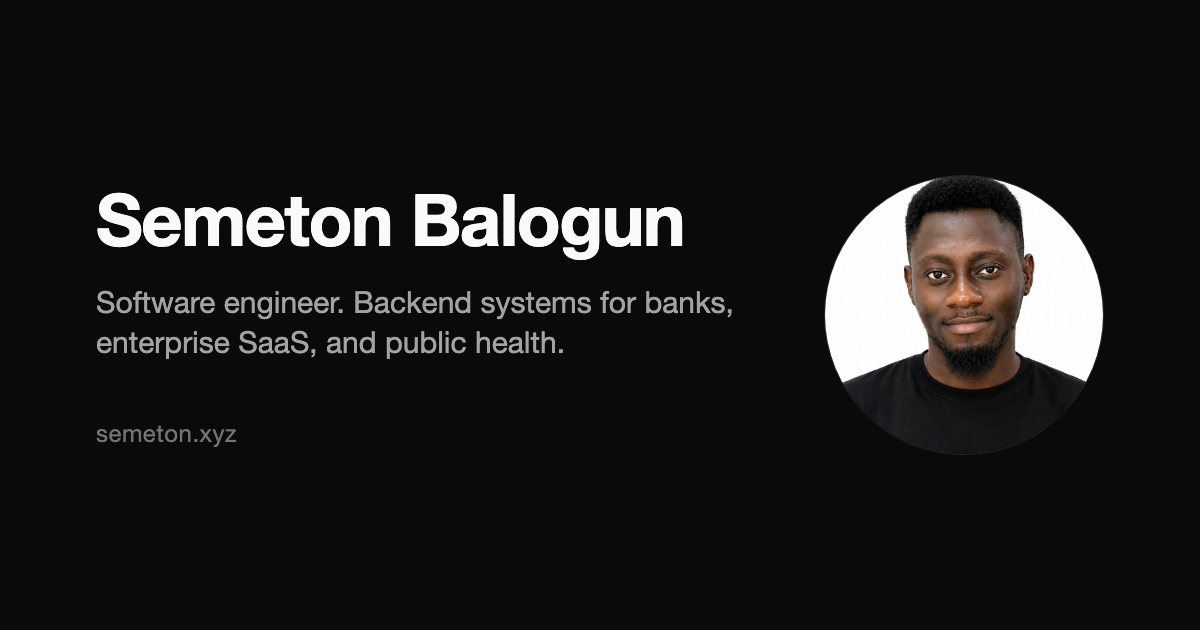
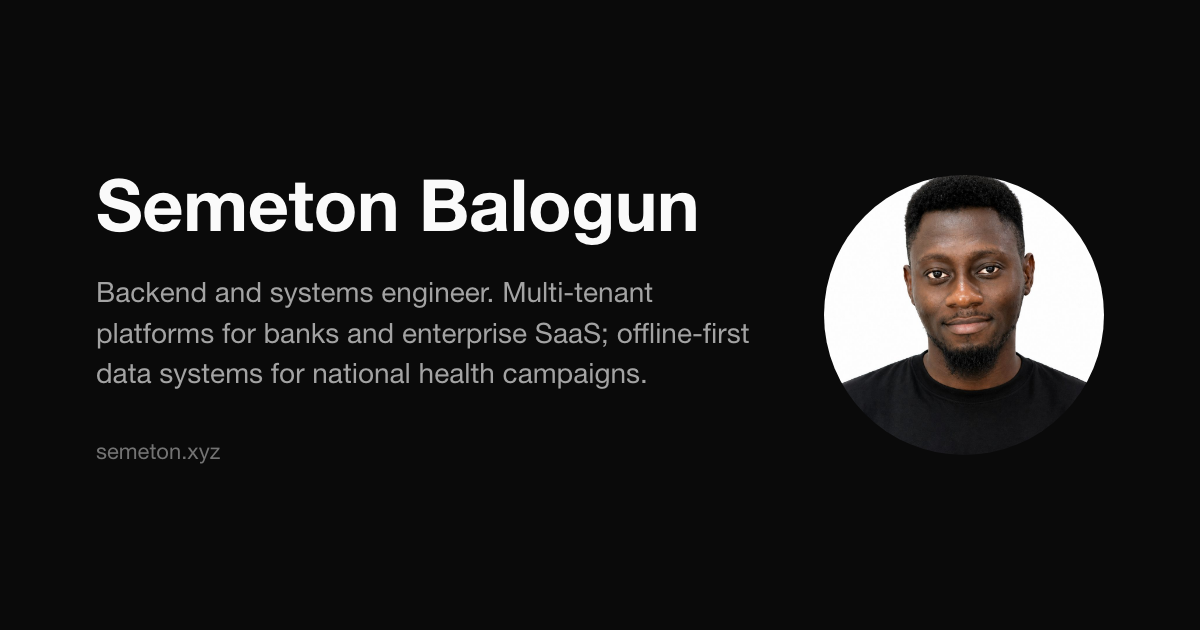
Reposition as backend and systems engineer
Rewrite metadata, JSON-LD, tagline and bio around current work; detail
the eGov and Seamless roles; note agent-contract v0.8 and the azb
companion CLI; refresh the social image and manifest name.

diff --git a/components/hero.tsx b/components/hero.tsx
@@ -38,8 +38,9 @@ export default function Hero() {
             Semeton Balogun
           </h1>
           <p className="mt-1 text-muted-foreground">
-            Software engineer. Backend systems for banks, enterprise SaaS, and
-            public health.
+            Backend and systems engineer. Multi-tenant platforms for banks and
+            enterprise SaaS; offline-first data systems for national health
+            campaigns.
           </p>
         </div>
         <Image
@@ -54,30 +55,9 @@ export default function Hero() {
 
       <div className="mt-8 space-y-4 leading-relaxed">
         <p>
-          I studied nursing at the University of Lagos, working as a graphic
-          designer and creative director for about five years alongside the
-          degree. I graduated with distinction and qualified as a registered
-          nurse. Curiosity got me teaching myself to code. In 2020 I joined
-          the tech apprenticeship at Bincom Dev Center, which became my first
-          engineering role, with{" "}
-          <a
-            href="https://ogwodev.com/"
-            target="_blank"
-            rel="noopener noreferrer"
-            className="underline decoration-muted-foreground/40 underline-offset-4 hover:decoration-foreground"
-          >
-            Emmanuel Ogwo
-          </a>{" "}
-          as my mentor.
-        </p>
-        <p>
-          Since then I've mostly built backend systems: education platforms at
-          Bincom and ScholarshipIQ, then as technical lead at Zercom Systems,
-          where I led the rewrite of an LMS used by <ClientList />. What I keep coming back to, and write about, is how
-          architecture decisions hold up once they meet production.
-        </p>
-        <p>
-          Currently at{" "}
+          I build backend systems where the hard part is production: tenant
+          isolation, data that has to stay correct across services and offline
+          devices, and deployments inside bank networks. At{" "}
           <a
             href="https://seamlesstech.com/"
             target="_blank"
@@ -85,8 +65,8 @@ export default function Hero() {
             className="underline decoration-muted-foreground/40 underline-offset-4 hover:decoration-foreground"
           >
             Seamless Technologies
-          </a>
-          , and on contract with{" "}
+          </a>{" "}
+          I work on a multi-tenant HR suite. On contract with{" "}
           <a
             href="https://egov.global/"
             target="_blank"
@@ -95,9 +75,43 @@ export default function Hero() {
           >
             eGov Foundation
           </a>{" "}
-          on DIGIT, the platform behind Nigeria's health campaigns. Pursuing a
-          Master's in Information Technology at Miva Open University, and
-          growing toward systems architecture and solutions engineering.
+          I work on DIGIT, the open-source platform behind Nigeria's malaria
+          campaigns. Since mid-2026 I've worked agent-first, under rules
+          enforced by a tool I built,{" "}
+          <a
+            href="https://agent-contract.semeton.xyz"
+            target="_blank"
+            rel="noopener noreferrer"
+            className="underline decoration-muted-foreground/40 underline-offset-4 hover:decoration-foreground"
+          >
+            agent-contract
+          </a>
+          .
+        </p>
+        <p>
+          Before that I was technical lead at Zercom Systems. I led the rewrite
+          of an LMS used by <ClientList />, and acted as solutions architect
+          for its bank deployments. What I keep coming back to, and write
+          about, is how architecture decisions hold up once they meet
+          production.
+        </p>
+        <p>
+          I came to software from nursing. I studied at the University of
+          Lagos, graduated with distinction and qualified as a registered
+          nurse, while working as a graphic designer and creative director on
+          the side. Curiosity got me teaching myself to code. In 2020 I joined
+          the tech apprenticeship at Bincom Dev Center, my first engineering
+          role, with{" "}
+          <a
+            href="https://ogwodev.com/"
+            target="_blank"
+            rel="noopener noreferrer"
+            className="underline decoration-muted-foreground/40 underline-offset-4 hover:decoration-foreground"
+          >
+            Emmanuel Ogwo
+          </a>{" "}
+          as my mentor. I'm now pursuing a Master's in Information Technology
+          at Miva Open University.
         </p>
       </div>
 

diff --git a/app/layout.tsx b/app/layout.tsx
@@ -6,22 +6,28 @@ import { ThemeProvider } from "@/components/theme-provider";
 
 const inter = Inter({ subsets: ["latin"], variable: "--font-inter" });
 
+const title = "Semeton Balogun | Backend & Systems Engineer";
+const description =
+  "Backend and systems engineer. Multi-tenant platforms for banks and enterprise SaaS; offline-first data systems for national health campaigns. At Seamless Technologies and eGov Foundation (DIGIT).";
+
 export const metadata: Metadata = {
-  title: "Semeton Balogun | Software Engineer",
-  description:
-    "Software engineer. Backend systems for banks, enterprise SaaS, and public health. Currently at Seamless Technologies, previously led the Tangerine365 rewrite deployed across major Nigerian banks.",
+  title,
+  description,
   keywords: [
     "Semeton Balogun",
     "Software Engineer",
     "Backend Engineer",
     "Laravel",
-    "Java",
-    "Spring Boot",
     "PostgreSQL",
+    "MySQL",
     "SQL Server",
+    "Kafka",
     "Multi-tenant Architecture",
     "Systems Architecture",
+    "Offline-first sync",
+    "Data migration",
     "Production Debugging",
+    "AI coding agents",
   ],
   authors: [{ name: "Semeton Balogun" }],
   creator: "Semeton Balogun",
@@ -50,24 +56,22 @@ export const metadata: Metadata = {
     type: "website",
     locale: "en_US",
     url: "https://semeton.xyz",
-    title: "Semeton Balogun | Software Engineer",
-    description:
-      "Software engineer. Backend systems for banks, enterprise SaaS, and public health. Currently at Seamless Technologies, previously led the Tangerine365 rewrite deployed across major Nigerian banks.",
+    title,
+    description,
     siteName: "Semeton Balogun Portfolio",
     images: [
       {
         url: "/og-image.png",
         width: 1200,
         height: 630,
-        alt: "Semeton Balogun - Software Engineer",
+        alt: "Semeton Balogun - Backend & Systems Engineer",
       },
     ],
   },
   twitter: {
     card: "summary_large_image",
-    title: "Semeton Balogun | Software Engineer",
-    description:
-      "Software engineer. Backend systems for banks, enterprise SaaS, and public health. Currently at Seamless Technologies, previously led the Tangerine365 rewrite deployed across major Nigerian banks.",
+    title,
+    description,
     images: ["/og-image.png"],
     creator: "@semetonbalogun",
   },
@@ -94,29 +98,31 @@ export default function RootLayout({
               "@type": "Person",
               name: "Semeton Balogun",
               url: "https://semeton.xyz",
-              jobTitle: "Software Engineer",
-              worksFor: {
-                "@type": "Organization",
-                name: "Seamless Technologies",
-              },
+              jobTitle: "Backend & Systems Engineer",
+              worksFor: [
+                { "@type": "Organization", name: "Seamless Technologies" },
+                { "@type": "Organization", name: "eGov Foundation" },
+              ],
               sameAs: [
                 "https://github.com/semeton",
                 "https://www.linkedin.com/in/semetonbalogun/",
+                "https://semeton.substack.com",
               ],
-              description:
-                "Software engineer. Backend systems for banks, enterprise SaaS, and public health. Currently at Seamless Technologies, previously led the Tangerine365 rewrite deployed across major Nigerian banks.",
+              description,
               knowsAbout: [
                 "Backend Development",
+                "System Architecture",
+                "Multi-tenant Architecture",
                 "PHP",
                 "Laravel",
-                "Java",
-                "Spring Boot",
-                "PostgreSQL",
                 "Node.js",
-                "System Architecture",
-                "API Development",
+                "MySQL",
+                "PostgreSQL",
+                "Kafka",
+                "Offline-first Sync",
+                "Data Migration",
                 "Production Debugging",
-                "Multi-tenant Architecture",
+                "AI Coding Agent Governance",
               ],
             }),
           }}

diff --git a/components/experience.tsx b/components/experience.tsx
@@ -5,16 +5,18 @@ export default function Experience() {
     {
       company: "eGov Foundation",
       url: "https://egov.global/",
-      role: "Hub Software Engineer (Contract)",
+      role: "Hub Software Engineer, West Africa (Contract)",
       period: "Jun 2026 – present",
       description:
-        "Working with the Solutions Engineering team on DIGIT HCM, the open-source platform running health campaigns in Nigeria.",
+        "Bridge between country programme teams and the platform engineering team on DIGIT HCM, the open-source platform running national malaria campaigns (SMC and ITN).",
       details: [
-        "Supported seasonal malaria chemoprevention (SMC) campaigns across Abuja, Bauchi, and Taraba",
-        "Diagnose field-reported issues: sync failures, stock and beneficiary data problems, app rollout issues",
-        "Write root-cause analyses and escalate confirmed defects to product engineering",
+        "Supported SMC and ITN campaigns across Abuja, Bauchi, Taraba and Borno, including on-site field support",
+        "Diagnosed activity dates being stamped at server sync time instead of on-device creation time: late-synced work counted against the next day's quota, locking field workers out of working days and skewing attendance-based payment. Documented the root cause and the fix requirement",
+        "Contributed to the stock-reconciliation design for an ITN distribution pilot: partial receipts, auto-returned shortfalls, and in-transit vs lost states in an offline-first ledger",
+        "Sizing infrastructure and support staffing for a 2027–29 multi-state campaign programme (11 states, ~27M target population)",
+        "Built the release test suite that each new field-app build passes before it reaches partners; wrote the campaign delivery SOP (requirement freeze, go-live checklist, failure-recovery runbook)",
       ],
-      stack: "Java · Spring Boot · PostgreSQL",
+      stack: "DIGIT HCM · PostgreSQL · Elasticsearch · Kibana · Offline-first sync",
     },
     {
       company: "Seamless Technologies",
@@ -22,12 +24,14 @@ export default function Experience() {
       role: "Backend Engineer",
       period: "Nov 2024 – present",
       description:
-        "Backend services for a multi-tenant HRMS serving enterprise clients.",
+        "Recruitment platform and HRMS modules (internal recruitment, exit, onboarding) for a multi-tenant HR suite serving enterprise clients.",
       details: [
-        "Built backend for the AI-integrated recruitment module: CV parsing, candidate ranking, automated screening",
-        "Implemented webhooks for the recruitment pipeline",
-        "Stabilizing and shipping features across exit, onboarding, and employee confirmation modules",
+        "Built the Kafka pipeline publishing recruitment, exit and onboarding data to the company data lake, as a non-blocking side effect so a mapping failure can't fail the primary write",
+        "Own the two-way integration between the recruitment platform and the core HRMS: requisition-to-job creation, status sync back, internal-applicant pre-fill, SSO with company-access checks, service-to-service auth",
+        "Led tenant-isolation and security hardening: SSRF-safe webhooks, company-scoped reads and writes, per-client mail credentials with delivery logging, throttled upload limits, GDPR self-service deletion (anonymise or hard-delete)",
+        "Backend for AI-assisted hiring: CV parsing, candidate ranking with normalised scores, automated screening; frictionless apply with no sign-up, OAuth pre-fill and magic-link login",
       ],
+      stack: "PHP 8 · Laravel · MySQL · Kafka · Redis/Horizon · Algolia · S3 · Pest",
     },
     {
       company: "Zercom Systems",

diff --git a/components/projects.tsx b/components/projects.tsx
@@ -104,7 +104,7 @@ const projects = [
     subtitle:
       "A governance runtime that puts deterministic guardrails around AI coding agents.",
     description:
-      "Published npm CLI that drops a policy layer into any repo so AI agents (Claude, Codex, Copilot) operate under explicit, enforceable rules instead of hoping they read the instructions file. Enforcement happens before writes land, not in post-hoc review.",
+      "Published npm CLI that drops a policy layer into any repo so AI agents (Claude, Codex, Copilot) operate under explicit, enforceable rules instead of hoping they read the instructions file. Enforcement happens before writes land, not in post-hoc review. v0.8 on npm. I use it daily in my own agent-first workflow on production codebases.",
     role: "Creator",
     highlights: [
       "Designed a layered runtime: repository contract (policy) → execution role (scoped authority) → governance runtime (enforcement) → verified writes",
@@ -112,6 +112,7 @@ const projects = [
       "Added Repository Memory so architectural decisions and session state persist across executions instead of being rebuilt each time",
       "Made governance provider-independent, so the same contract holds whether the agent is Claude, OpenAI, or a future model",
       "Shipped and maintain it as an installable CLI: npm i -g @semeton/agent-contract",
+      "Companion tool: @semeton/azure-boards-cli (azb), so agents can read and update tickets from the terminal",
     ],
     tech: ["Node.js", "CLI", "YAML", "Claude", "OpenAI"],
     link: "https://agent-contract.semeton.xyz",

diff --git a/components/writing.tsx b/components/writing.tsx
@@ -34,7 +34,7 @@ const articles = [
   {
     title: "Understanding Is the Feature: What AI Agents Can't Do For You",
     date: "Mar 2026",
-    dek: "A reflection from an engineer who learned the hard way.",
+    dek: "Agents absorb routine coding; the hard bugs live at the seams between systems.",
     link: "https://semeton.substack.com/p/understanding-is-the-feature-what",
   },
   {
